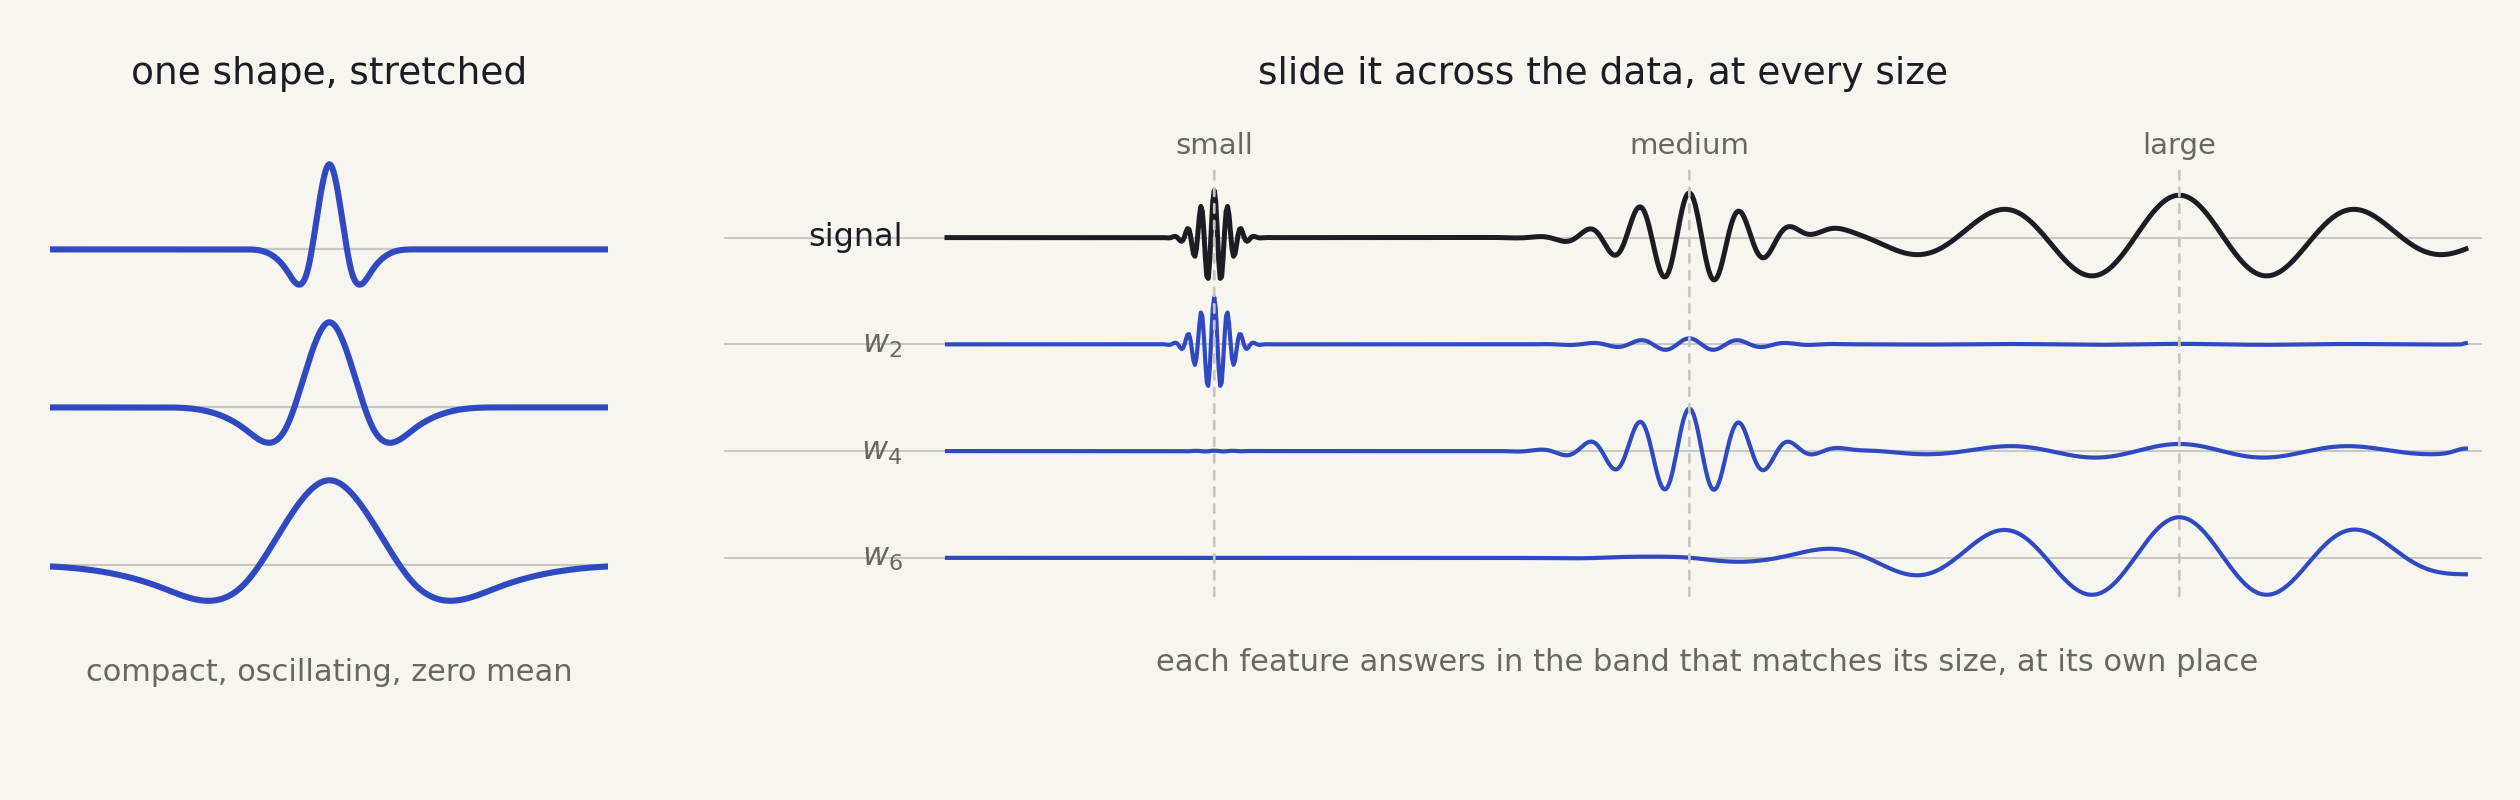
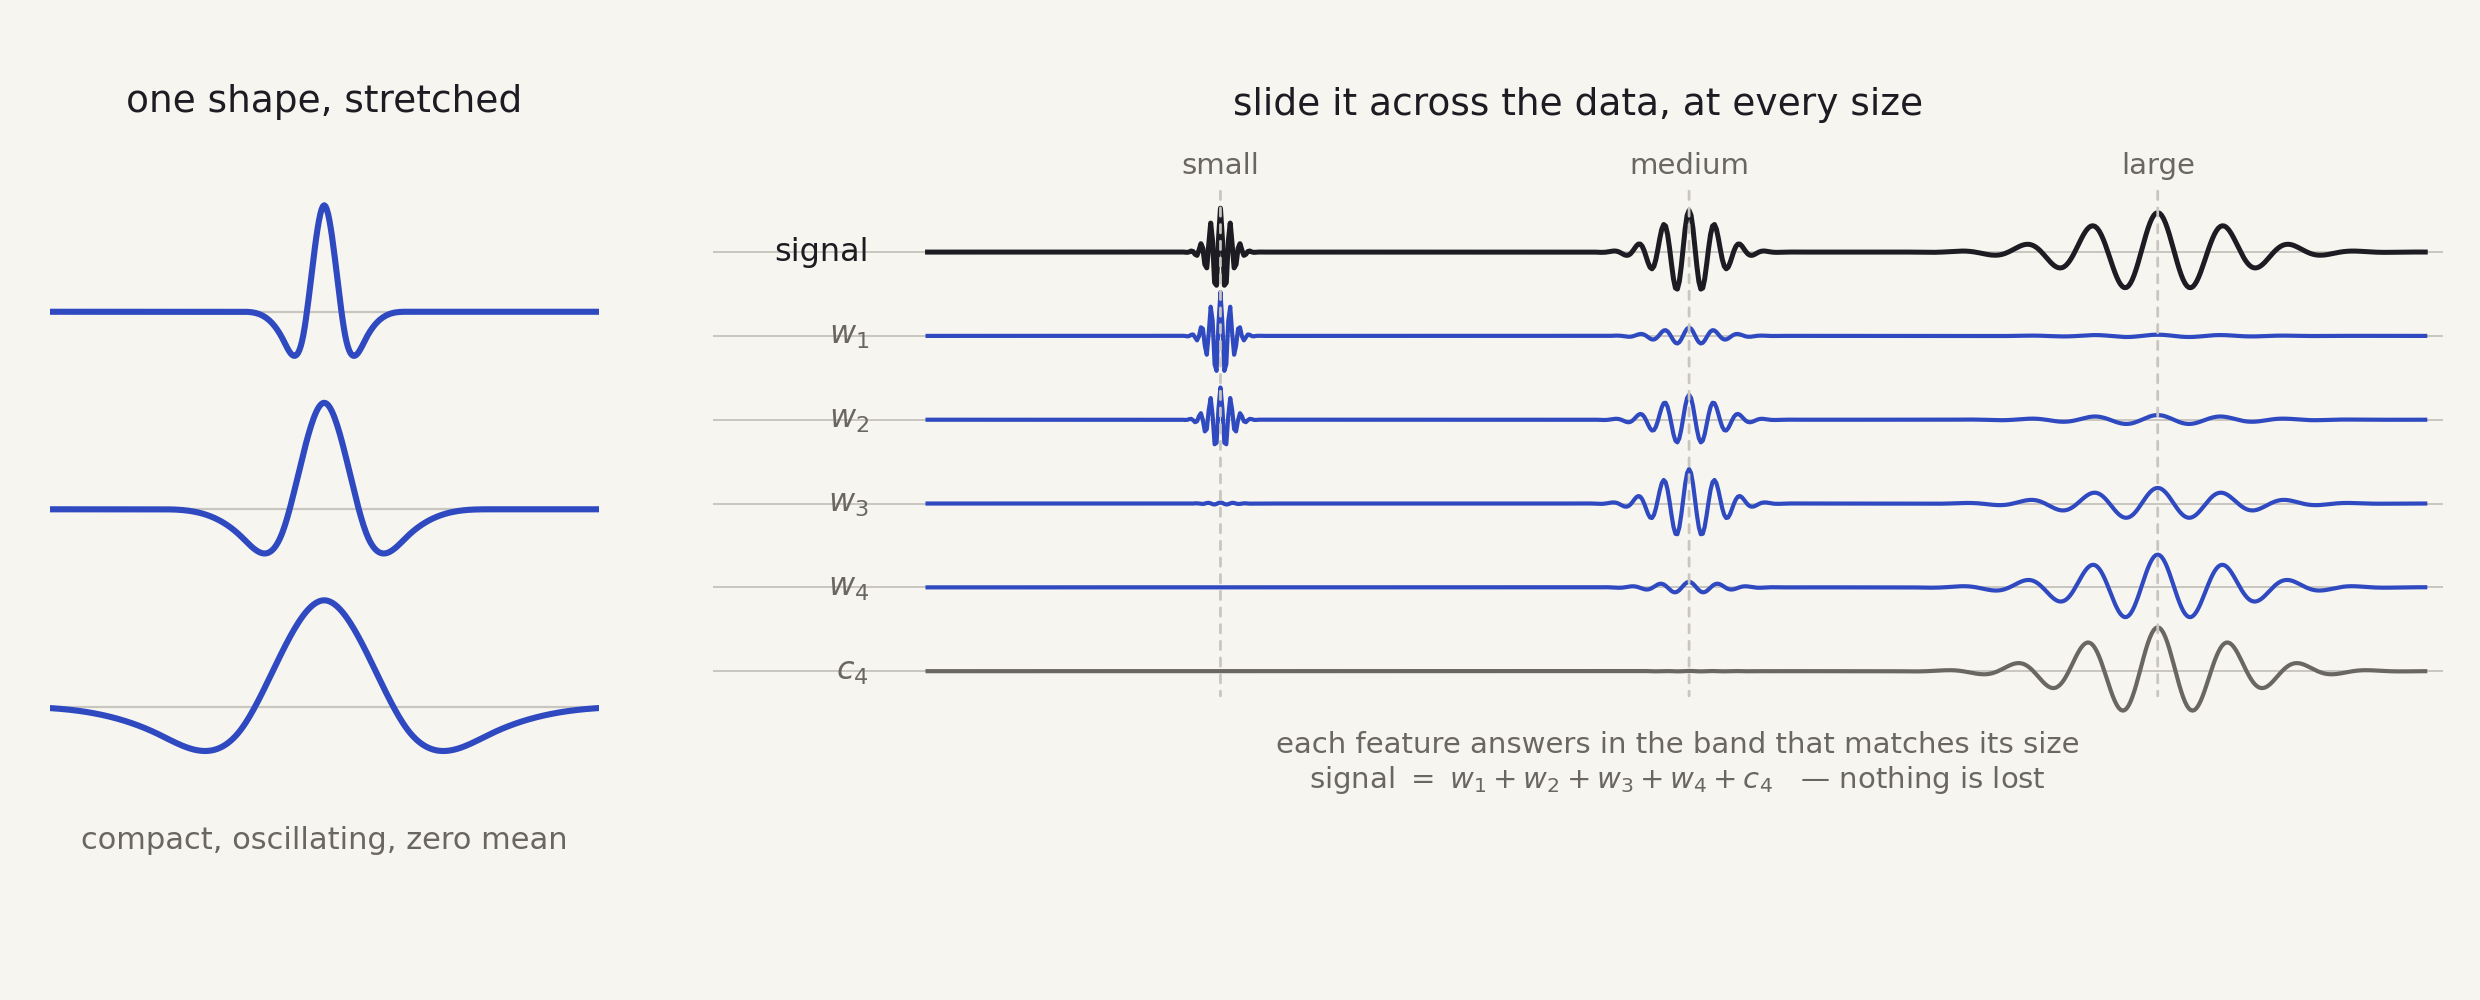
refine(PhD_Defense_2026): open the wavelets slide on a definition, and cut the JPEG detour
Two frames, under a minute. The lede is now an actual definition in plain
words - a wavelet is a little wave, a bump that wiggles and dies away;
stretch it, slide it, and it reports how much structure of that size sits
at each place - because the room may be meeting the word for the first
time and the slide never said what the thing was.

Frame 1 is the two backup primers' pictures joined into one: the shape at
three dilations beside the complete transform of a signal, all four bands
plus the coarse residual, so "nothing is lost" is shown rather than
claimed. Frame 2 replaces the JPEG pop-over with the convergence-map
version of the same operation, which is where the payoff line now lives:
a power spectrum hands back a curve, this hands back an image at every
scale, with pixels we can do statistics on.

The sparsity/compression figure stays in the tree for backup use; at this
point in the talk the room needs what the tool gives us, not where else it
is used.

Claude-Session: https://claude.ai/code/session_01LWhC4XxHHpuwT6hbaAg56i

diff --git a/PhD_Defense_2026/index.html b/PhD_Defense_2026/index.html
@@ -2881,69 +2881,52 @@
 			</section>
 
 			<!-- ============ Key concept: wavelets.  The second excursion outside cosmology,
-			     rhyming with the generative-modelling slide.  Rebuilt: the first version showed
-			     a shape and some 1-D bands and never showed the OPERATION, so the room could
-			     see the pieces without understanding what a transform is or why it helps here.
-			     Now it is the operation itself, on a field that looks like our data, and the
-			     pop-over demonstrates the property the talk actually leans on - sparsity -
-			     rather than a file format's layout.  Figures from tools/make-wavelet-what.py
-			     and tools/make-wavelet-sparsity.py. ============ -->
+			     rhyming with the generative-modelling slide.  Two frames and under a minute:
+			     the definition and the transform in the abstract, then one click to the same
+			     operation on a convergence map, where the payoff line lives.  No JPEG: at this
+			     point in the talk the room needs to know what the tool gives US, not where
+			     else it is used.  Figures from tools/make-wavelet-excursion.py and
+			     tools/make-wavelet-what.py. ============ -->
 			<section class="wvx" data-theme="light">
 				<h3 class="slide-title tight">Key concept: <em class="alert">wavelets</em></h3>
 
-				<p class="wv-lede">Fourier tells you <b>which scales</b> are there. A wavelet tells you which
-					&mdash; and <b class="alert">where</b>.</p>
+				<p class="wv-lede">A wavelet is a <b class="alert">little wave</b> &mdash; a bump that wiggles once
+					or twice and dies away. Stretch it to a size, slide it across the data, and it reports
+					<b>how much structure of that size sits at each place</b>.</p>
 
 				<figure class="wv-fig">
-					<img class="plain" src="../assets/diagrams/wavelet_what.png"
-						alt="a convergence map convolved with a small wavelet gives a map of the small-scale structure; the same map convolved with a large wavelet gives a map of the large-scale structure">
+					<img class="plain" src="../assets/diagrams/wavelet_excursion.png"
+						alt="left: the starlet wavelet at three dilations, visibly the same shape at three widths; right: a signal carrying three wave packets of different wavelength at different places, decomposed into four wavelet bands plus a coarse residual, each packet answering in the band that matches its size">
 				</figure>
 
-				<ul class="points dots wv-points">
-					<li>one shape, stretched and slid &mdash; the value at each point asks <b>how much structure of
-							this size is here</b></li>
-					<li>do it at every size: one map in, <b class="alert">a stack of maps out</b>, and nothing is
-						lost &mdash; $\kappa = \sum_j w_j + c_J$</li>
-					<li class="fragment fade-in" data-fragment-index="1">the power spectrum hands back a
-						<b>curve</b>. This hands back <b class="alert">an image per scale</b> &mdash; so we can do
-						statistics on its pixels</li>
-				</ul>
-
-				<div class="popover fragment fade-in" data-fragment-index="2">
-					<img src="../assets/diagrams/wavelet_sparsity.png"
-						alt="a photograph beside its reconstruction from only the largest five per cent of its wavelet coefficients: the two are hard to tell apart">
-					<p class="pop-cap">Throw away <b>95%</b> of the coefficients and the picture survives.
-						Localised structure is <b class="alert">sparse</b> in this basis &mdash; that is JPEG&nbsp;2000,
-						and it is why <b>thresholding</b> the small coefficients denoises.</p>
-					<p class="pop-src">University of Crete campus, CDF 5/3 &mdash; the wavelet of JPEG 2000</p>
+				<div class="popover fragment fade-in" data-fragment-index="1">
+					<img src="../assets/diagrams/wavelet_what.png"
+						alt="a convergence map convolved with a small wavelet gives a map of the small-scale structure; the same map convolved with a large wavelet gives a map of the large-scale structure">
+					<p class="pop-cap">On a convergence map: one map in, <b class="alert">one map per scale</b> out.
+						A power spectrum hands back a <b>curve</b>; this hands back an <b class="alert">image at
+							every scale</b> &mdash; with pixels we can do statistics on.</p>
 				</div>
 
 				<aside class="notes">
 					The second excursion outside cosmology, doing the same job as the generative-modelling slide:
-					a break for the room, and the one tool the next slide depends on. A minute, no more, and it is
-					the FIGURE that teaches - do not read the bullets out.
-					SAY: everything we have done with two-point statistics has been Fourier, whose basis is sines -
-					each a single perfectly defined frequency, each running across the whole map - so a Fourier
-					coefficient tells you which scales are present and nothing at all about where. A wavelet is the
-					other trade: a small wave, compact, oscillating, with zero mean. Point at the middle column.
-					Here it is at two sizes. And the operation is the one everyone in this room already knows -
-					convolution. Slide the shape over the map, record the overlap everywhere. [point along the top
-					row] Convolve with the small one and you get a map of the small structure - those compact dots
-					are the haloes, and you can see WHERE each of them is. [bottom row] Convolve with the large one
-					and the same map hands back its large-scale structure instead. Do that at every size and you
-					have the transform: one map in, a stack of maps out, and it is exact - the bands plus the coarse
-					map add back up to what you started with. [CLICK] And this is the sentence that matters for the
-					next slide. A power spectrum hands you back a curve: one number per scale for the entire map.
-					This hands you back an IMAGE at each scale. An image has pixels, and pixels have a
-					distribution - which is why a one-point statistic per scale exists at all, and that is exactly
-					what peaks and the l1-norm are. [CLICK - POPOVER] One last thing, and you have all used it.
-					Same transform on a photograph, and this is not a mosaic of bands, it is the picture rebuilt
-					from the largest five per cent of its coefficients. Ninety-five per cent thrown away, and it is
-					still the campus. That is what sparsity means: localised structure concentrates into a few large
-					coefficients and everything else is near zero. It is why JPEG 2000 works, it is why thresholding
-					the small ones is a denoiser - which is the proximal step from Part 1, not a coincidence - and
-					it is why a handful of wavelet coefficients per scale carries the non-Gaussian information we
-					are about to go looking for. Then get off it.
+					a break for the room, and the one tool the next slide depends on. TWO frames, under a minute,
+					and the figures teach - do not read the lede out, say it.
+					SAY: everything we have done so far with two-point statistics has been Fourier, and the Fourier
+					basis is sines: each one a single perfectly defined frequency, each one running across the whole
+					map. So a Fourier coefficient tells you which scales are present and nothing at all about where.
+					A wavelet is the other trade, and the name is the definition - a little wave. A bump that
+					wiggles and dies away. On the left it is at three sizes, and it is visibly the same shape
+					stretched; that is the entire construction. Now stretch it to a size, slide it along the data,
+					and record the overlap everywhere. [right] Three features here - small, medium, large - and each
+					one answers in the band that matches its size, at its own place. Do that at every size and you
+					have the transform, and it is exact: the bands plus the coarse map add back up to what you
+					started with. [CLICK] Same thing on a convergence map. Convolve with the small shape and you get
+					a map of the small structure - those dots are the haloes, and you can see where each one is.
+					Convolve with the large one and the same map hands back its large-scale structure instead. And
+					THIS is the sentence to land, because the next slide depends on it: a power spectrum hands you
+					back a curve, one number per scale for the whole map. This hands you back an image at every
+					scale. An image has pixels, pixels have a distribution - and that is why a one-point statistic
+					per scale exists at all. Which is exactly what peaks and the l1-norm are. Then move on.
 				</aside>
 			</section>
 

diff --git a/PhD_Defense_2026/custom.css b/PhD_Defense_2026/custom.css
@@ -2151,9 +2151,9 @@
 	max-width: 92%; margin: 0.7em auto 0; text-align: left;
 	font-size: 0.8em; line-height: 1.45; color: var(--fg);
 }
-.reveal .slides section.wvx .wv-fig { margin: 0.6em auto 0; max-width: 82%; }
+.reveal .slides section.wvx .wv-fig { margin: 2.4em auto 0; max-width: 97%; }
 .reveal .slides section.wvx .wv-fig img {
-	width: 100%; height: auto; max-height: 44vh; object-fit: contain;
+	width: 100%; height: auto; max-height: 52vh; object-fit: contain;
 	margin: 0; border: 0; box-shadow: none; background: transparent;
 }
 .reveal .slides section.wvx .points.wv-points {
@@ -2161,7 +2161,7 @@
 }
 .reveal .slides section.wvx .popover {
 	position: absolute; left: 50%; top: 52%; transform: translate(-50%, -50%);
-	z-index: 30; width: 60%; padding: 1.0em 1.1em 0.95em;
+	z-index: 30; width: 72%; padding: 1.0em 1.2em 0.95em;
 	background: var(--surface);
 	border: 1px solid var(--edge); border-radius: 10px;
 	box-shadow: 0 20px 60px rgba(0, 0, 0, 0.30);
@@ -2169,7 +2169,7 @@
 /* the mosaic is nearly square, so it has to be capped by HEIGHT or the card
    grows past the slide. */
 .reveal .slides section.wvx .popover img {
-	width: 100%; max-width: 100%; height: auto; max-height: 46vh;
+	width: 100%; max-width: 100%; height: auto; max-height: 62vh;
 	object-fit: contain; margin: 0;
 	border: 0; border-radius: 4px; box-shadow: none; background: transparent;
 	display: block;

diff --git a/tools/make-wavelet-excursion.py b/tools/make-wavelet-excursion.py
@@ -11,8 +11,10 @@ compressed version of both, in one wide, short frame:
   left   the shape at three dilations - compact, oscillating, zero mean, and
          visibly the SAME shape each time. That is the whole definition.
   right  a signal carrying three wave packets of different wavelength at
-         different places, and three bands underneath it. Each packet answers
-         in the band matching its size, at its own position.
+         different places, and the COMPLETE transform underneath it: every
+         band plus the coarse residual, so the reconstruction identity printed
+         at the bottom is a claim the figure actually shows rather than one the
+         reader has to take on trust.
 
 Wave packets, not Gaussian bumps: a bump is localised in place but not in scale,
 so its response smears across several bands, which is the opposite of the point.
@@ -62,7 +64,7 @@ def starlet_profile(n, step):
     return bands[step]
 
 
-n = 1024
+n = 768
 t = np.arange(n)
 
 
@@ -71,12 +73,12 @@ def packet(centre, lam, amp=1.0):
     return amp * env * np.cos(2 * np.pi * (t - centre) / lam)
 
 
-sig = packet(180, 9.0) + packet(500, 34.0, 0.95) + packet(830, 120.0, 0.9)
-SHOW = [1, 3, 5]                      # the three bands the packets land in
-bands, _coarse = atrous(sig, max(SHOW) + 1)
-band_scale = max(np.abs(bands[j]).max() for j in SHOW)
+sig = packet(150, 5.0) + packet(390, 13.0, 0.95) + packet(630, 34.0, 0.9)
+NS = 4                                # the whole transform fits on the slide
+bands, coarse = atrous(sig, NS)
+band_scale = max(np.abs(b).max() for b in bands)
 
-fig = plt.figure(figsize=(12.6, 4.0))
+fig = plt.figure(figsize=(12.4, 5.0))
 fig.patch.set_facecolor(PAPER)
 gs = fig.add_gridspec(1, 2, width_ratios=[1.0, 3.15], wspace=0.10,
                       left=0.02, right=0.985, top=0.86, bottom=0.13)
@@ -105,8 +107,9 @@ axw.set_xticks([]); axw.set_yticks([])
 axb = fig.add_subplot(gs[0, 1])
 axb.set_facecolor(PAPER)
 rows = [("signal", sig, INK, np.abs(sig).max(), 1.8)] + \
-       [(rf"$w_{j+1}$", bands[j], ACCENT, band_scale, 1.5) for j in SHOW]
-gap = 1.02
+       [(rf"$w_{j+1}$", bands[j], ACCENT, band_scale, 1.5) for j in range(NS)] + \
+       [(rf"$c_{NS}$", coarse, MUTED, np.abs(coarse).max(), 1.5)]
+gap = 0.86
 for i, (lab, y, col, sc, lw) in enumerate(rows):
     off = -i * gap
     axb.axhline(off, color=EDGE, lw=0.7, zorder=0)
@@ -114,18 +117,20 @@ for i, (lab, y, col, sc, lw) in enumerate(rows):
     axb.text(-30, off, lab, ha="right", va="center", fontsize=11.5,
              color=INK if i == 0 else MUTED)
 
-for x0, txt in [(180, "small"), (500, "medium"), (830, "large")]:
+for x0, txt in [(150, "small"), (390, "medium"), (630, "large")]:
     axb.annotate(txt, xy=(x0, -len(rows) * gap + 0.55), xytext=(x0, 0.80),
                  fontsize=10.5, color=MUTED, ha="center",
                  arrowprops=dict(arrowstyle="-", color=EDGE, lw=1, ls=(0, (3, 3))))
 
-axb.set_xlim(-150, n + 10)
-axb.set_ylim(-len(rows) * gap - 0.30, 1.20)
+axb.set_xlim(-110, n + 8)
+axb.set_ylim(-len(rows) * gap - 1.18, 1.15)
 axb.set_title("slide it across the data, at every size", color=INK,
-              fontsize=13.5, pad=10)
-axb.text(n / 2, -len(rows) * gap - 0.06,
-         "each feature answers in the band that matches its size, at its own place",
-         ha="center", fontsize=11, color=MUTED)
+              fontsize=13.5, pad=9)
+axb.text(n / 2, -len(rows) * gap - 0.34,
+         r"each feature answers in the band that matches its size"
+         "\n"
+         r"signal $=\ w_1 + w_2 + w_3 + w_4 + c_4$   — nothing is lost",
+         ha="center", fontsize=10.5, color=MUTED)
 for s in axb.spines.values():
     s.set_visible(False)
 axb.set_xticks([]); axb.set_yticks([])
